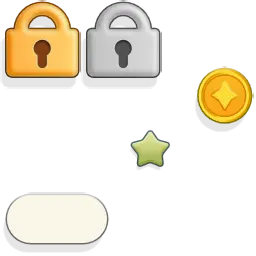
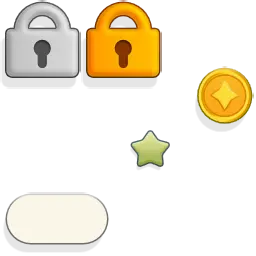
-

Changed region(s): [[0.0, 0.0, 0.6562, 0.3125]]

diff --git a/puzzlegame/game_html/scripts/c3runtime.js b/puzzlegame/game_html/scripts/c3runtime.js
@@ -1900,6 +1900,15 @@ self.C3_ExpressionFuncs = [
 			return () => ((f0(Math.floor((v1.GetValue() % 60)), 2) + ".") + f2(Math.floor(((v3.GetValue() % 1) * 1000)), 3));
 		},
 		p => {
+			const f0 = p._GetNode(0).GetBoundMethod();
+			return () => f0("Пазл дня? Легко", "Вот это скорость!");
+		},
+		p => {
+			const f0 = p._GetNode(0).GetBoundMethod();
+			return () => f0("Отличный результат", "Завтра новый вызов", "Корона твоя? Или..");
+		},
+		() => "daily",
+		p => {
 			const n0 = p._GetNode(0);
 			const v1 = p._GetNode(1).GetVar();
 			const v2 = p._GetNode(2).GetVar();
@@ -1970,7 +1979,7 @@ self.C3_ExpressionFuncs = [
 			return () => f0("Больше кусочков", "Погнали собирать", "Новый челлендж");
 		},
 		() => "up",
-		() => "nextBtn",
+		() => "Next",
 		p => {
 			const n0 = p._GetNode(0);
 			return () => (n0.ExpObject() * 1.5);
@@ -2069,7 +2078,10 @@ self.C3_ExpressionFuncs = [
 			const f0 = p._GetNode(0).GetBoundMethod();
 			const n1 = p._GetNode(1);
 			const n2 = p._GetNode(2);
-			return () => f0((and("Не хватает ", subtract(n1.ExpInstVar(), n2.ExpObject("coins"))) + " монет"), "Ты почти там");
+			const f3 = p._GetNode(3).GetBoundMethod();
+			const n4 = p._GetNode(4);
+			const n5 = p._GetNode(5);
+			return () => f0((and("Не хватает ", subtract(n1.ExpInstVar(), n2.ExpObject("coins"))) + f3(subtract(n4.ExpInstVar(), n5.ExpObject("coins")))), "Ты почти там");
 		},
 		() => "locked",
 		p => {
@@ -2096,6 +2108,20 @@ self.C3_ExpressionFuncs = [
 		() => "rewarded",
 		() => "hideRef",
 		() => 5,
+		p => {
+			const f0 = p._GetNode(0).GetBoundMethod();
+			const v1 = p._GetNode(1).GetVar();
+			return () => (f0(v1.GetValue()) % 10);
+		},
+		p => {
+			const f0 = p._GetNode(0).GetBoundMethod();
+			const v1 = p._GetNode(1).GetVar();
+			return () => (f0(v1.GetValue()) % 100);
+		},
+		() => 11,
+		() => 14,
+		() => " монет",
+		() => " монеты",
 		() => "Scroll",
 		p => {
 			const f0 = p._GetNode(0).GetBoundMethod();
@@ -2149,6 +2175,17 @@ self.C3_ExpressionFuncs = [
 			const f3 = p._GetNode(3).GetBoundMethod();
 			return () => (Math.floor(((f0() - f1(((f2(f3())).toString() + "-01-01T00:00:00Z"))) / 86400000)) + 1);
 		},
+		() => "Option",
+		p => {
+			const f0 = p._GetNode(0).GetBoundMethod();
+			const n1 = p._GetNode(1);
+			return () => (f0(0) - (n1.ExpObject() / 1.5));
+		},
+		p => {
+			const f0 = p._GetNode(0).GetBoundMethod();
+			const n1 = p._GetNode(1);
+			return () => (f0(0) - (n1.ExpObject() / 6));
+		},
 		() => "bottom",
 		() => "orderCategories",
 		() => "BG",
@@ -2201,6 +2238,10 @@ self.C3_ExpressionFuncs = [
 			const n0 = p._GetNode(0);
 			return () => Math.floor(divide(n0.ExpObject("savedTime"), (((24 * 60) * 60) * 100)));
 		},
+		p => {
+			const n0 = p._GetNode(0);
+			return () => n0.ExpObject("sound");
+		},
 		() => "progress",
 		p => {
 			const f0 = p._GetNode(0).GetBoundMethod();
@@ -2223,6 +2264,10 @@ self.C3_ExpressionFuncs = [
 		() => "Daily",
 		() => -15,
 		() => 0.15,
+		p => {
+			const n0 = p._GetNode(0);
+			return () => (n0.ExpObject() * 0.85);
+		},
 		() => "Play",
 		() => "Упс, пазл собран",
 		() => "возвращайся завтра!",
@@ -2235,6 +2280,15 @@ self.C3_ExpressionFuncs = [
 			const n0 = p._GetNode(0);
 			return () => and((Math.round((n0.ExpBehavior("progress") * 100)) / 100), " % собрано");
 		},
+		p => {
+			const n0 = p._GetNode(0);
+			return () => (n0.ExpInstVar() * 1.7);
+		},
+		p => {
+			const n0 = p._GetNode(0);
+			return () => ((n0.ExpObject()) ? (0) : (1));
+		},
+		() => "sound",
 		() => "Debug",
 		p => {
 			const n0 = p._GetNode(0);

diff --git a/puzzlegame/game_html/scripts/objRefTable.js b/puzzlegame/game_html/scripts/objRefTable.js
@@ -173,6 +173,7 @@ self.C3_GetObjectRefTable = function () {
 		C3.Plugins.Arr.Cnds.CompareCurrent,
 		C3.Plugins.Dictionary.Acts.AddKey,
 		C3.Plugins.System.Exps.max,
+		C3.Plugins.NinePatch.Cnds.HasTags,
 		C3.Plugins.NinePatch.Exps.BBoxMidY,
 		C3.Plugins.Particles.Acts.SetXRandomiser,
 		C3.Plugins.Particles.Acts.SetYRandomiser,
@@ -198,6 +199,7 @@ self.C3_GetObjectRefTable = function () {
 		C3.Plugins.Eponesh_GameScore.Cnds.IsAdsRewardedAvailable,
 		C3.Plugins.Eponesh_GameScore.Acts.AdsShowRewarded,
 		C3.Plugins.Eponesh_GameScore.Cnds.OnAdsRewardedReward,
+		C3.Plugins.System.Acts.SetFunctionReturnValue,
 		C3.Plugins.Touch.Exps.Y,
 		C3.Plugins.Touch.Cnds.OnTouchEnd,
 		C3.Plugins.NinePatch.Acts.SetY,
@@ -208,7 +210,7 @@ self.C3_GetObjectRefTable = function () {
 		C3.Plugins.Eponesh_GameScore.Exps.ServerTimeUnix,
 		C3.Plugins.Date.Exps.Parse,
 		C3.Plugins.Date.Exps.GetUTCYear,
-		C3.Plugins.NinePatch.Cnds.HasTags,
+		C3.Plugins.System.Exps.viewportright,
 		C3.Plugins.AJAX.Acts.RequestFile,
 		C3.Plugins.Audio.Cnds.IsTagPlaying,
 		C3.Plugins.Eponesh_GameScore.Cnds.PlayerHasKey,
@@ -229,18 +231,24 @@ self.C3_GetObjectRefTable = function () {
 		C3.Plugins.Date.Exps.Now,
 		C3.Plugins.Dictionary.Acts.JSONLoad,
 		C3.Plugins.Eponesh_GameScore.Exps.PlayerGet,
+		C3.Plugins.Audio.Acts.SetMuted,
 		C3.Plugins.Dictionary.Cnds.HasKey,
 		C3.Plugins.Eponesh_GameScore.Acts.LeaderboardOpenScoped,
 		C3.Plugins.Eponesh_GameScore.Acts.AchievementsOpen,
+		C3.Plugins.Sprite.Acts.ToggleBoolInstanceVar,
+		C3.Plugins.Sprite.Cnds.IsBoolInstanceVarSet,
+		C3.Plugins.Sprite.Exps.AnimationFrame,
+		C3.Plugins.Touch.Cnds.OnTouchStart,
+		C3.Plugins.Sprite.Acts.SetBoolInstanceVar,
 		C3.Plugins.Keyboard.Cnds.OnKey,
 		C3.Plugins.Mouse.Cnds.IsOverObject,
 		C3.Plugins.LocalStorage.Acts.ClearStorage,
 		C3.Plugins.Eponesh_GameScore.Acts.PlayerSetName,
 		C3.Plugins.Keyboard.Cnds.IsKeyDown,
 		C3.Plugins.DrawingCanvas.Acts.SetPosToObject,
+		C3.Plugins.TiledBg.Acts.SetOpacity,
 		C3.Plugins.Spritefont2.Acts.SetScale,
-		C3.Plugins.Touch.Cnds.OnTouchStart,
-		C3.JavaScriptInEvents.E_popup_Event9_Act1,
+		C3.Behaviors.Tween.Cnds.IsAnyPingPong,
 		C3.JavaScriptInEvents.E_popup_Event10_Act1,
 		C3.JavaScriptInEvents.E_popup_Event11_Act1,
 		C3.JavaScriptInEvents.E_popup_Event12_Act1,
@@ -248,6 +256,7 @@ self.C3_GetObjectRefTable = function () {
 		C3.JavaScriptInEvents.E_popup_Event14_Act1,
 		C3.JavaScriptInEvents.E_popup_Event15_Act1,
 		C3.JavaScriptInEvents.E_popup_Event16_Act1,
+		C3.JavaScriptInEvents.E_popup_Event17_Act1,
 		C3.Plugins.Eponesh_GameScore.Cnds.OnAchievementsAnyUnlock
 	];
 };
@@ -291,7 +300,7 @@ self.C3_JsPropNameTable = [
 	{w: 0},
 	{h: 0},
 	{Sine: 0},
-	{btnNext: 0},
+	{btnFinish: 0},
 	{catFrame: 0},
 	{catFrameHeader: 0},
 	{PlatformInfo: 0},
@@ -335,6 +344,10 @@ self.C3_JsPropNameTable = [
 	{popup: 0},
 	{popup_bg: 0},
 	{starMenu: 0},
+	{sharing: 0},
+	{barHeight: 0},
+	{optionBtn: 0},
+	{soundBtn: 0},
 	{puzzlePieceFamily: 0},
 	{allText: 0},
 	{PiecesPerLine: 0},
@@ -367,6 +380,9 @@ self.C3_JsPropNameTable = [
 	{count_debug: 0},
 	{Duration: 0},
 	{Strength: 0},
+	{n10: 0},
+	{n100: 0},
+	{n: 0},
 	{curScrollY: 0},
 	{scrollVelocity: 0},
 	{velocityStop: 0},
@@ -416,7 +432,7 @@ self.InstanceType = {
 	backToCat: class extends self.ISpriteInstance {},
 	Mouse: class extends self.IInstance {},
 	Keyboard: class extends self.IInstance {},
-	btnNext: class extends self.I9PatchInstance {},
+	btnFinish: class extends self.I9PatchInstance {},
 	catFrame: class extends self.I9PatchInstance {},
 	catFrameHeader: class extends self.I9PatchInstance {},
 	PlatformInfo: class extends self.IInstance {},
@@ -446,6 +462,9 @@ self.InstanceType = {
 	popup: class extends self.ISpriteInstance {},
 	popup_bg: class extends self.ITiledBackgroundInstance {},
 	starMenu: class extends self.ISpriteInstance {},
+	sharing: class extends self.IDrawingCanvasInstance {},
+	optionBtn: class extends self.ISpriteInstance {},
+	soundBtn: class extends self.ISpriteInstance {},
 	puzzlePieceFamily: class extends self.IDrawingCanvasInstance {},
 	allText: class extends self.ISpriteFontInstance {}
 }

diff --git a/puzzlegame/game_html/scripts/project/javaScriptInEvents.js b/puzzlegame/game_html/scripts/project/javaScriptInEvents.js
@@ -9,12 +9,12 @@
 
 const scriptsInEvents = {
 
-	async E_popup_Event9_Act1(runtime, localVars)
+	async E_popup_Event10_Act1(runtime, localVars)
 	{
 		confetti.start(3000)
 	},
 
-	async E_popup_Event10_Act1(runtime, localVars)
+	async E_popup_Event11_Act1(runtime, localVars)
 	{
 		confetti({
 		  particleCount: 100,
@@ -23,7 +23,7 @@ const scriptsInEvents = {
 		});
 	},
 
-	async E_popup_Event11_Act1(runtime, localVars)
+	async E_popup_Event12_Act1(runtime, localVars)
 	{
 		function randomInRange(min, max) {
 		  return Math.random() * (max - min) + min;
@@ -37,7 +37,7 @@ const scriptsInEvents = {
 		});
 	},
 
-	async E_popup_Event12_Act1(runtime, localVars)
+	async E_popup_Event13_Act1(runtime, localVars)
 	{
 		var count = 200;
 		var defaults = {
@@ -74,7 +74,7 @@ const scriptsInEvents = {
 		});
 	},
 
-	async E_popup_Event13_Act1(runtime, localVars)
+	async E_popup_Event14_Act1(runtime, localVars)
 	{
 		var duration = 15 * 1000;
 		var animationEnd = Date.now() + duration;
@@ -98,7 +98,7 @@ const scriptsInEvents = {
 		}, 250);
 	},
 
-	async E_popup_Event14_Act1(runtime, localVars)
+	async E_popup_Event15_Act1(runtime, localVars)
 	{
 		var duration = 15 * 1000;
 		var animationEnd = Date.now() + duration;
@@ -135,7 +135,7 @@ const scriptsInEvents = {
 		}());
 	},
 
-	async E_popup_Event15_Act1(runtime, localVars)
+	async E_popup_Event16_Act1(runtime, localVars)
 	{
 		var end = Date.now() + (1 * 1000);
 		
@@ -164,7 +164,7 @@ const scriptsInEvents = {
 		}());
 	},
 
-	async E_popup_Event16_Act1(runtime, localVars)
+	async E_popup_Event17_Act1(runtime, localVars)
 	{
 		var canvas = document.getElementById('my-canvas');
 		